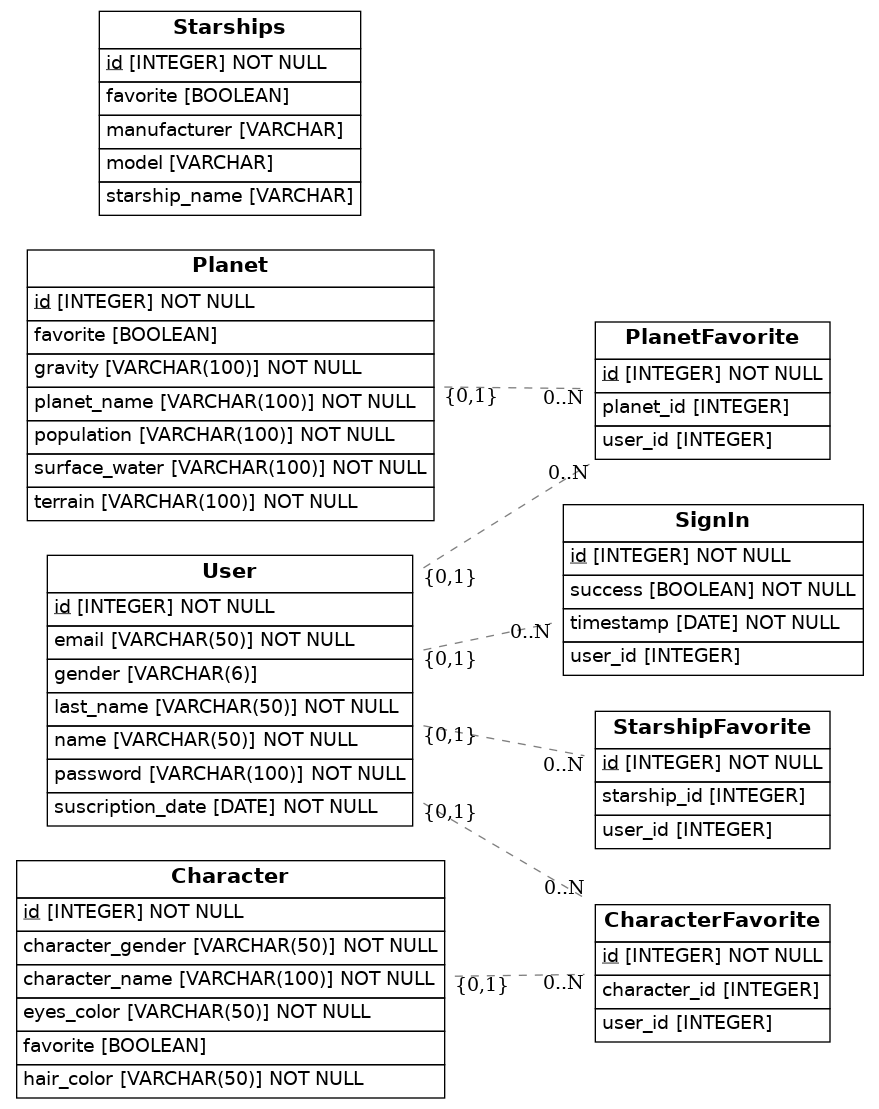
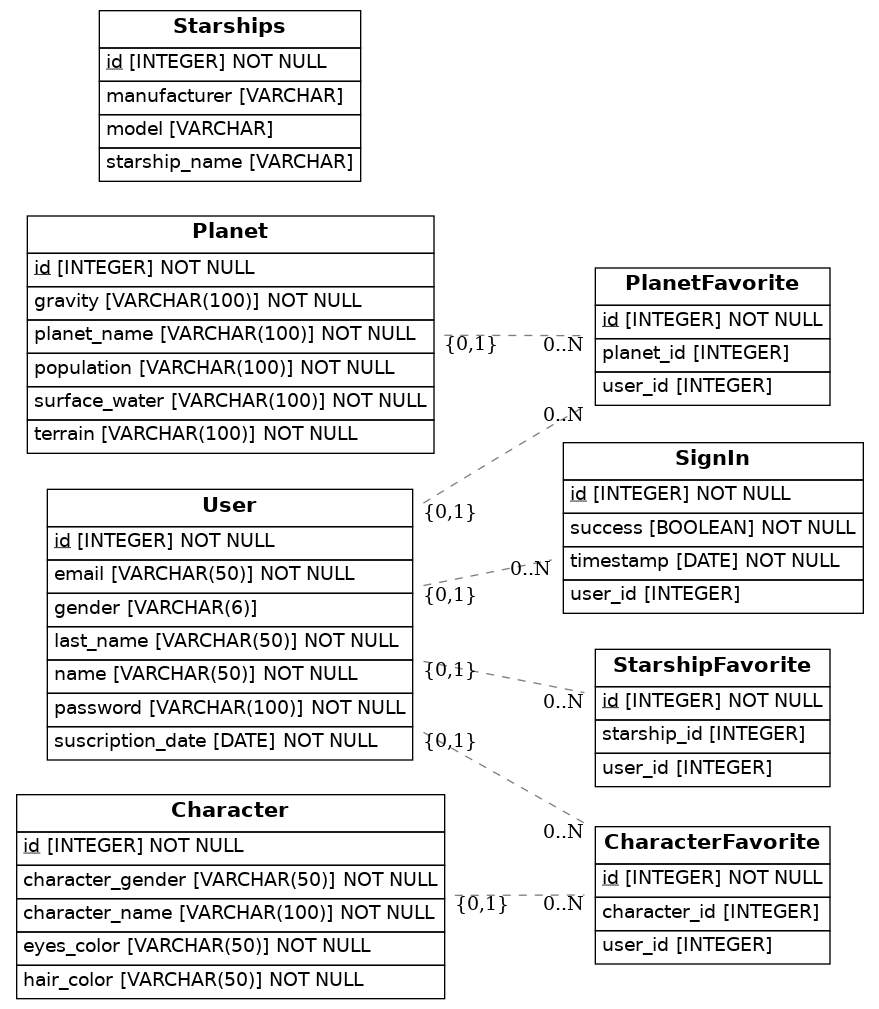
Remove favorite value

diff --git a/src/models.py b/src/models.py
@@ -70,7 +70,7 @@ class Character(Base):
     character_gender = Column(String(50), nullable=False)
     hair_color = Column(String(50), nullable=False)
     eyes_color = Column(String(50), nullable=False)
-    favorite = Column(Boolean, default=False)
+
 
 class Planet(Base):
     __tablename__ = "Planet"
@@ -81,7 +81,7 @@ class Planet(Base):
     terrain = Column(String(100), nullable=False)
     surface_water = Column(String(100), nullable=False)
     gravity = Column(String(100), nullable=False)
-    favorite = Column(Boolean, default=False)
+
 
 class Starship(Base):
     __tablename__ = "Starships"
@@ -90,7 +90,7 @@ class Starship(Base):
     starship_name = Column(String, nullable="False")
     model = Column(String, nullable="False")
     manufacturer = Column(String, nullable="False")
-    favorite = Column(Boolean, default=False)
+
 
 
 ## Draw from SQLAlchemy base
